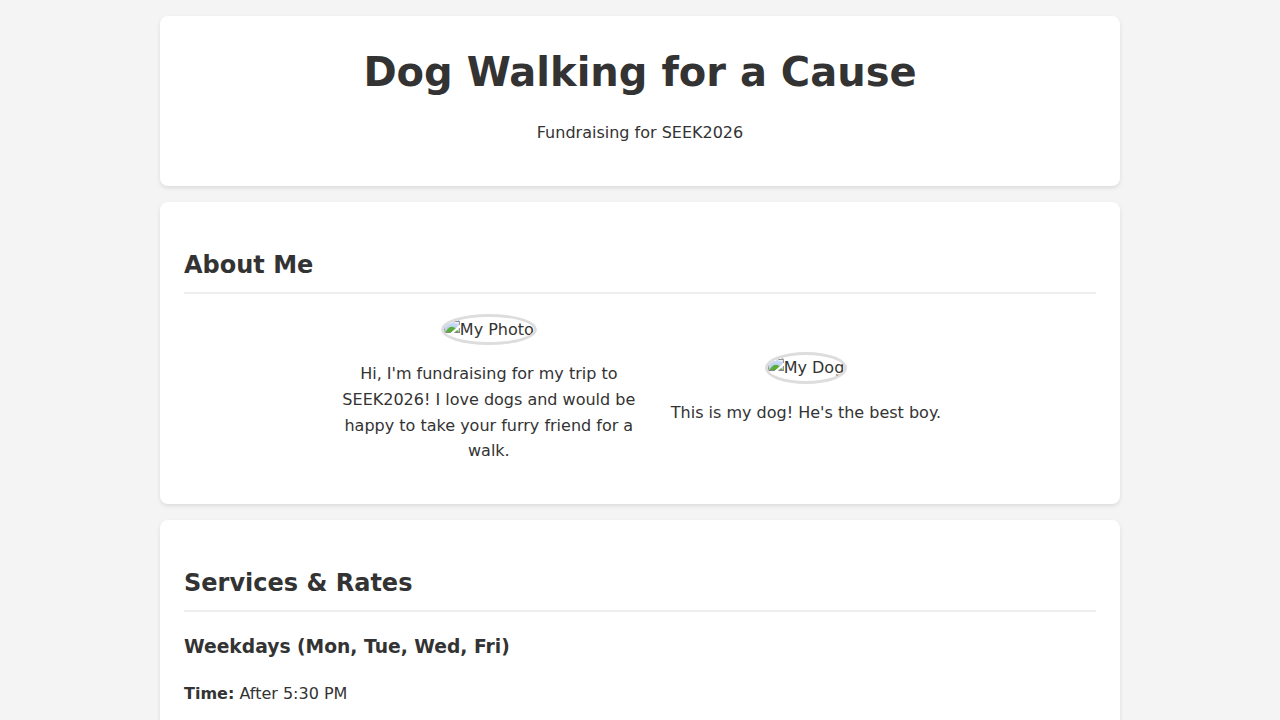
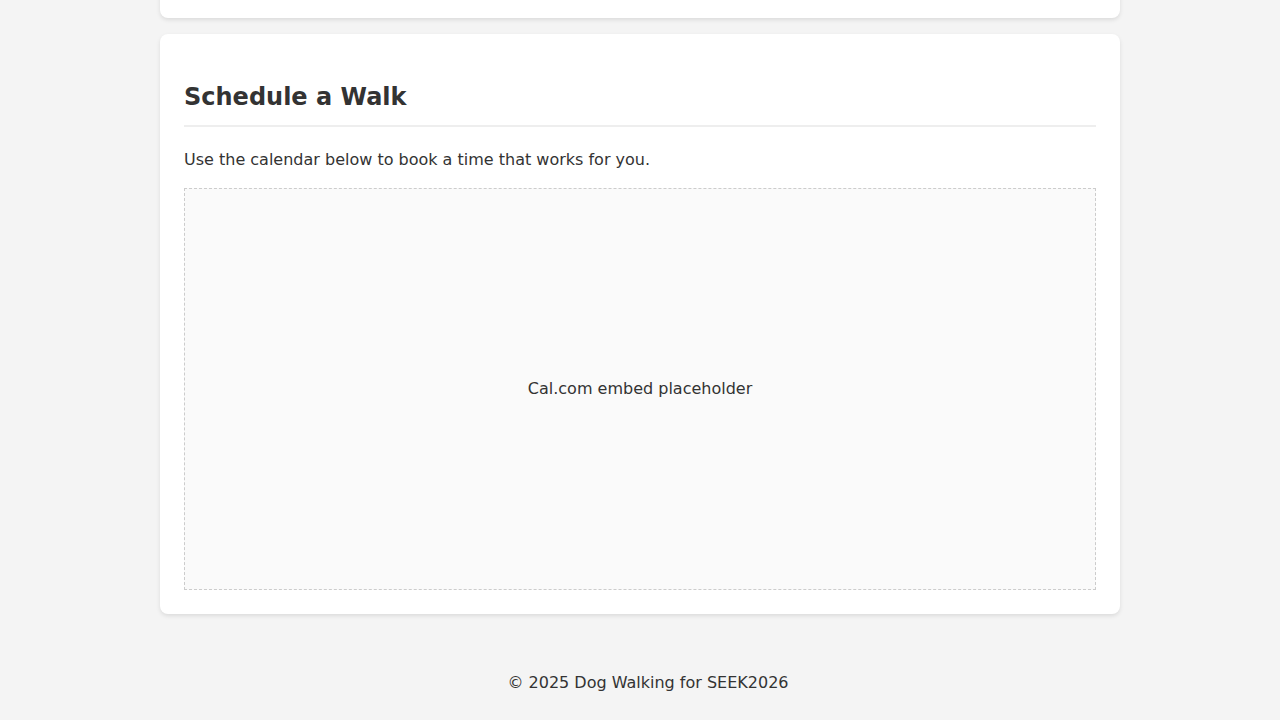
Style footer to be smaller and transparent
Reduces the padding on the footer and removes the background color
to make it blend with the rest of the page. The text color is
updated to ensure visibility.

diff --git a/style.css b/style.css
@@ -82,9 +82,9 @@ h2 {
 /* Footer */
 footer {
     text-align: center;
-    padding: 1rem;
-    background: #333;
-    color: #fff;
+    padding: 0.5rem;
+    background: none;
+    color: #333;
     position: relative;
     bottom: 0;
     width: 100%;

diff --git a/jules-scratch/verification/verify_footer.py b/jules-scratch/verification/verify_footer.py
@@ -1,0 +1,25 @@
+import asyncio
+from playwright.async_api import async_playwright
+import os
+
+async def main():
+    async with async_playwright() as p:
+        browser = await p.chromium.launch()
+        page = await browser.new_page()
+
+        # Get the absolute path to the HTML file
+        html_file_path = os.path.abspath('index.html')
+
+        # Go to the local HTML file
+        await page.goto(f'file://{html_file_path}')
+
+        # Scroll to the bottom of the page
+        await page.evaluate('window.scrollTo(0, document.body.scrollHeight)')
+
+        # Take a screenshot
+        await page.screenshot(path='jules-scratch/verification/verification.png')
+
+        await browser.close()
+
+if __name__ == '__main__':
+    asyncio.run(main())
